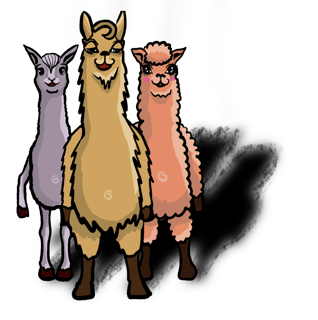
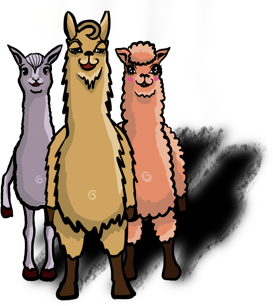
Updated images to remove extra space in UWP project

diff --git a/Game/Game.UWP/Properties/AssemblyInfo.cs b/Game/Game.UWP/Properties/AssemblyInfo.cs
@@ -4,13 +4,13 @@ using System.Runtime.InteropServices;
 // General Information about an assembly is controlled through the following 
 // set of attributes. Change these attribute values to modify the information
 // associated with an assembly.
-[assembly: AssemblyTitle("Game.UWP")]
-[assembly: AssemblyDescription("")]
+[assembly: AssemblyTitle("Camelid Business")]
+[assembly: AssemblyDescription("A game about the survival of three clans as they try to protect their homes from the evil monsters")]
 [assembly: AssemblyConfiguration("")]
-[assembly: AssemblyCompany("")]
-[assembly: AssemblyProduct("Game.UWP")]
-[assembly: AssemblyCopyright("Copyright ©  2015")]
-[assembly: AssemblyTrademark("")]
+[assembly: AssemblyCompany("Seattle U")]
+[assembly: AssemblyProduct("CamelidBusiness")]
+[assembly: AssemblyCopyright("Copyright ©  2022")]
+[assembly: AssemblyTrademark("CamelidBusiness")]
 [assembly: AssemblyCulture("")]
 
 // Version information for an assembly consists of the following four values:
